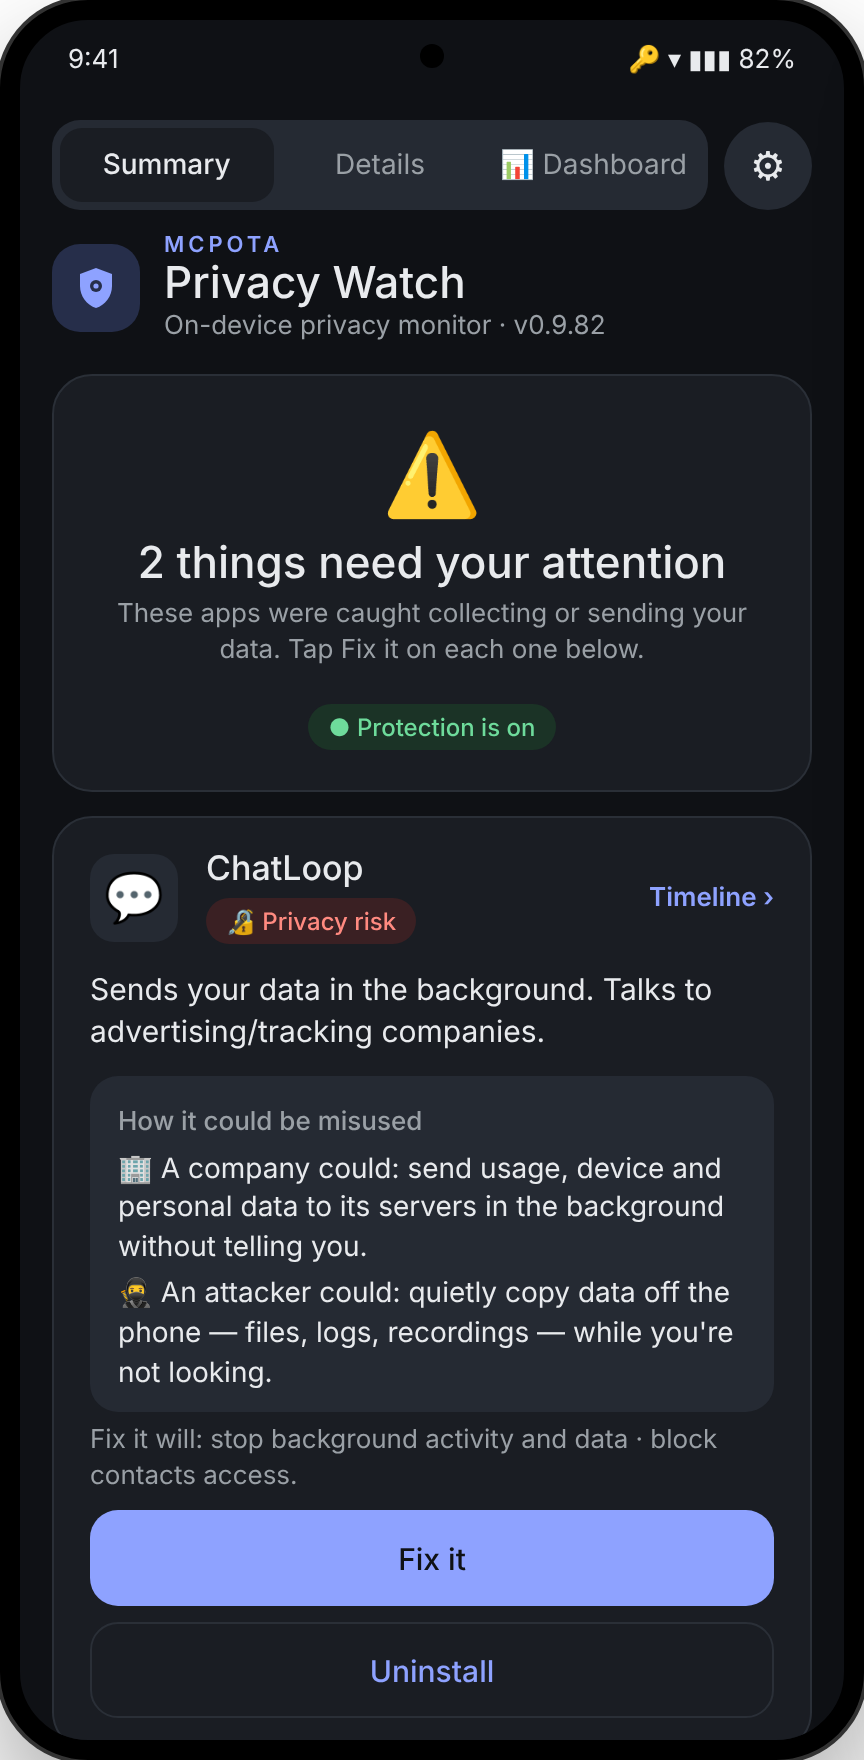
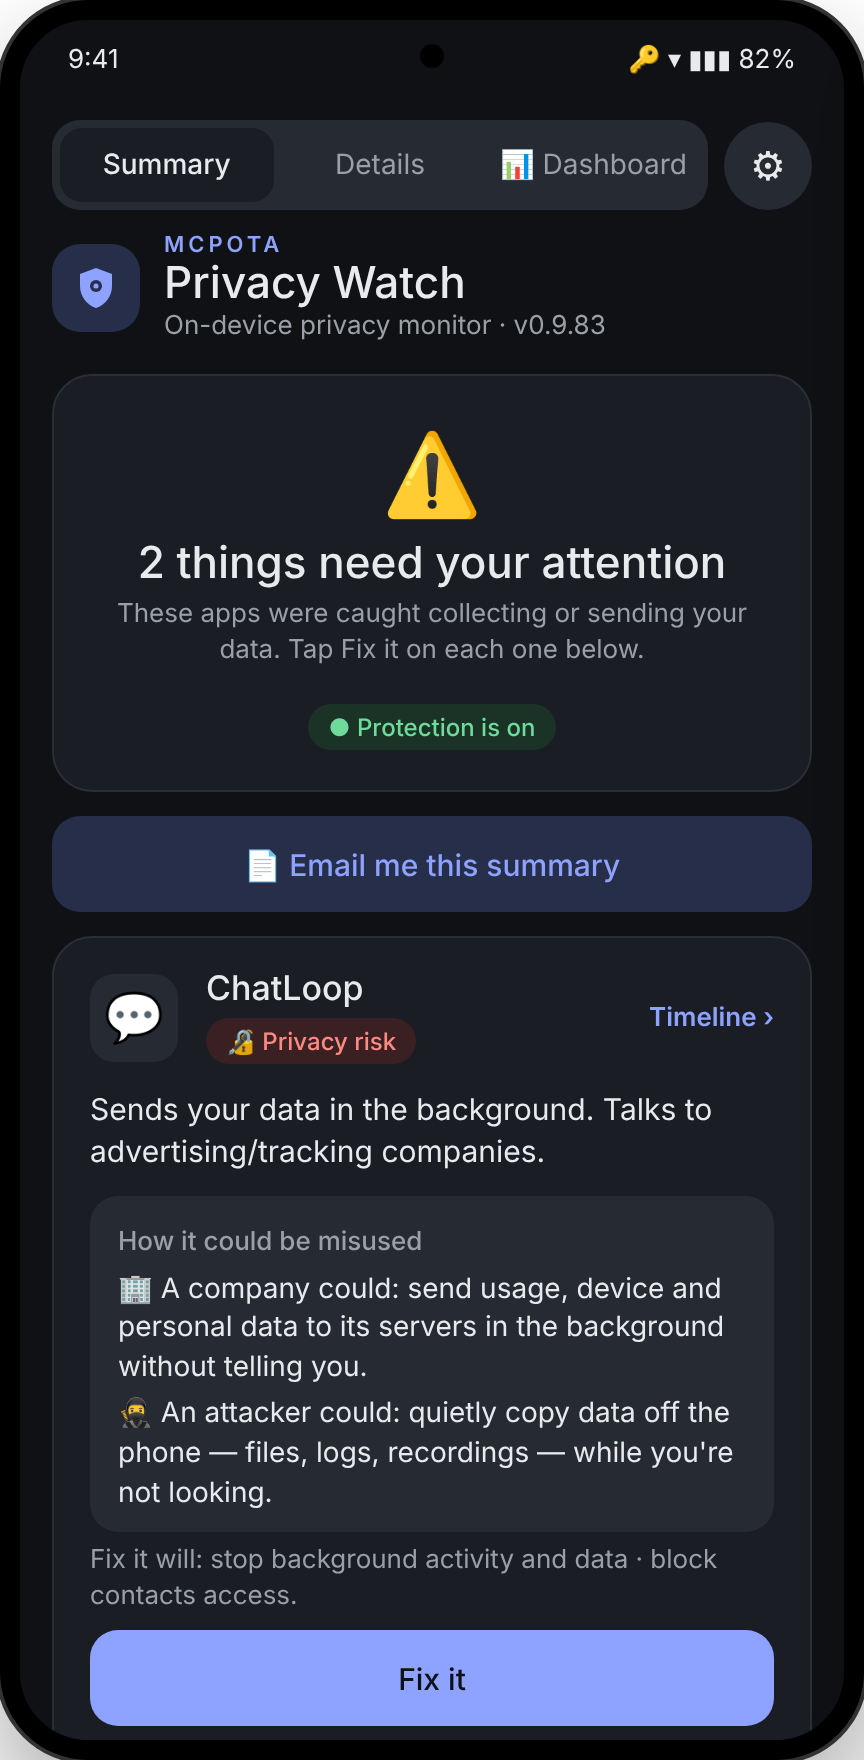
Pictures show the report button at the top; reports copy and release notes v0.9.83
Claude-Session: https://claude.ai/code/session_01XdjYnQbAyse5DfWRDQtaw8

Changed region(s): [[0.0625, 0.4375, 0.9375, 1.0], [0.7188, 0.5625, 0.875, 0.5938]]

diff --git a/index.html b/index.html
@@ -111,7 +111,7 @@
         <span class="badge">🚫 No ads</span><span class="badge">🚫 No analytics</span><span class="badge">📱 Everything stays on your phone</span><span class="badge">↩ Undo for every fix</span>
       </div>
     </div>
-    <img class="phone" src="img/simple.png?v=4" alt="Privacy Watch's Summary screen listing three apps that need attention, with Fix it buttons">
+    <img class="phone" src="img/simple.png?v=5" alt="Privacy Watch's Summary screen listing three apps that need attention, with Fix it buttons">
   </div>
 </div>
 
@@ -130,7 +130,7 @@
         <li>Plain-English "How it could be misused" — by a company and by an attacker</li>
       </ul>
     </div>
-    <img class="phone" src="img/simple.png?v=4" alt="Findings list with red privacy risks and an amber worth-a-look item">
+    <img class="phone" src="img/simple.png?v=5" alt="Findings list with red privacy risks and an amber worth-a-look item">
   </div>
 
   <div class="feature flip">
@@ -143,7 +143,7 @@
         <li>Access → network links within two minutes</li>
       </ul>
     </div>
-    <img class="phone" src="img/timeline.png?v=4" alt="Timeline for a weather app showing location accesses followed by tracker lookups">
+    <img class="phone" src="img/timeline.png?v=5" alt="Timeline for a weather app showing location accesses followed by tracker lookups">
   </div>
 
   <div class="feature">
@@ -156,7 +156,7 @@
         <li>Before / after counts in your reports, so you can see it worked</li>
       </ul>
     </div>
-    <img class="phone" src="img/fix.png?v=4" alt="Fix it confirmation listing battery restriction, background data block and contacts block">
+    <img class="phone" src="img/fix.png?v=5" alt="Fix it confirmation listing battery restriction, background data block and contacts block">
   </div>
 
   <div class="feature flip">
@@ -169,7 +169,7 @@
         <li>Re-applying is part of the original fix</li>
       </ul>
     </div>
-    <img class="phone" src="img/undone.png?v=4" alt="A card saying a fix was undone for a music app, with Re-apply and Leave it buttons">
+    <img class="phone" src="img/undone.png?v=5" alt="A card saying a fix was undone for a music app, with Re-apply and Leave it buttons">
   </div>
 
   <div class="feature">
@@ -182,7 +182,7 @@
         <li>Tracker domains and who contacted them</li>
       </ul>
     </div>
-    <img class="phone" src="img/dashboard.png?v=4" alt="Dashboard with tiles for privacy risks, background accesses and trackers, and a most-active list">
+    <img class="phone" src="img/dashboard.png?v=5" alt="Dashboard with tiles for privacy risks, background accesses and trackers, and a most-active list">
   </div>
 
   <div class="feature flip">
@@ -195,7 +195,7 @@
         <li>User-installed certificates, hidden apps, screen recording</li>
       </ul>
     </div>
-    <img class="phone" src="img/audit.png?v=4" alt="Settings audit showing a sideloaded QR scanner with accessibility access flagged for review">
+    <img class="phone" src="img/audit.png?v=5" alt="Settings audit showing a sideloaded QR scanner with accessibility access flagged for review">
   </div>
 </div></section>
 
@@ -221,14 +221,14 @@
 
 <section id="reports"><div class="wrap">
   <h2>Reports you can share</h2>
-  <p class="sub">Generate a report on the phone and email it as a PDF or open it in your browser. Built on the phone — nothing is uploaded to make it. These samples use made-up apps and data.</p>
+  <p class="sub">One tap at the top of Summary emails the executive summary; one tap at the top of Details sends the technical report. Each is made on the phone as a PDF. Built on the phone — nothing is uploaded to make it. These samples use made-up apps and data.</p>
   <div class="reports">
     <a class="report" href="/samples/executive-report.html">
-      <img src="img/report-executive.png?v=4" alt="Sample executive summary report with status tiles and donut charts" loading="lazy">
+      <img src="img/report-executive.png?v=5" alt="Sample executive summary report with status tiles and donut charts" loading="lazy">
       <div><strong>Executive summary</strong><span>A one-page answer to "is my phone OK?": what needs attention, what was fixed, and how each finding could be misused.</span><b>Open sample →</b></div>
     </a>
     <a class="report" href="/samples/technical-report.html">
-      <img src="img/report-technical.png?v=4" alt="Sample technical report with collection status, domain charts and activity over time" loading="lazy">
+      <img src="img/report-technical.png?v=5" alt="Sample technical report with collection status, domain charts and activity over time" loading="lazy">
       <div><strong>Technical report</strong><span>Every chart and table: domains, hour-by-hour activity, a heatmap per app, data sent, access → network links and the settings audit.</span><b>Open sample →</b></div>
     </a>
   </div>
@@ -247,12 +247,12 @@
 <section><div class="wrap">
   <h2>Gallery</h2>
   <div class="gallery">
-    <figure><img src="img/simple.png?v=4" alt="" loading="lazy"><figcaption>Findings</figcaption></figure>
-    <figure><img src="img/timeline.png?v=4" alt="" loading="lazy"><figcaption>Timeline</figcaption></figure>
-    <figure><img src="img/dashboard.png?v=4" alt="" loading="lazy"><figcaption>Dashboard</figcaption></figure>
-    <figure><img src="img/fix.png?v=4" alt="" loading="lazy"><figcaption>Fix it</figcaption></figure>
-    <figure><img src="img/undone.png?v=4" alt="" loading="lazy"><figcaption>Fix check</figcaption></figure>
-    <figure><img src="img/audit.png?v=4" alt="" loading="lazy"><figcaption>Settings audit</figcaption></figure>
+    <figure><img src="img/simple.png?v=5" alt="" loading="lazy"><figcaption>Findings</figcaption></figure>
+    <figure><img src="img/timeline.png?v=5" alt="" loading="lazy"><figcaption>Timeline</figcaption></figure>
+    <figure><img src="img/dashboard.png?v=5" alt="" loading="lazy"><figcaption>Dashboard</figcaption></figure>
+    <figure><img src="img/fix.png?v=5" alt="" loading="lazy"><figcaption>Fix it</figcaption></figure>
+    <figure><img src="img/undone.png?v=5" alt="" loading="lazy"><figcaption>Fix check</figcaption></figure>
+    <figure><img src="img/audit.png?v=5" alt="" loading="lazy"><figcaption>Settings audit</figcaption></figure>
   </div>
 </div></section>
 

diff --git a/changelog.html b/changelog.html
@@ -12,7 +12,8 @@ footer{border-top:1px solid var(--line);padding-top:16px;color:var(--muted);font
 </style></head><body><main>
 <a href="/">← MCPOTA Privacy Watch</a>
 <h1>Release notes</h1><p style="color:var(--muted)">What changed in each version. The same notes are in the app under ⚙ → What's new.</p>
-<section><h2>v0.9.80 · October 13, 2026</h2><ul><li>New name: MCPOTA Privacy Watch. The home-screen icon still reads Privacy Watch.</li></ul></section>
+<section><h2>v0.9.83 · October 13, 2026</h2><ul><li>The one-tap report buttons are now at the top: under the verdict on Summary, and above Status on Details.</li></ul></section>
+<section><h2>v0.9.80 · October 13, 2026</h2><ul><li>New name: MCPOTA Privacy Watch. The home-screen icon still reads Privacy Watch, and the app header shows MCPOTA above the name.</li></ul></section>
 <section><h2>v0.9.79 · October 13, 2026</h2><ul><li>Tabs renamed: Simple is now Summary, and Advanced is now Details, to match the executive summary and the detailed technical report (and to avoid confusion with &quot;advanced access&quot;).</li></ul></section>
 <section><h2>v0.9.78 · October 13, 2026</h2><ul><li>One-tap reports: &quot;Email me this summary&quot; at the bottom of Simple, and &quot;Technical report&quot; at the bottom of Advanced. The full 📄 Reports screen stays on the Dashboard.</li></ul></section>
 <section><h2>v0.9.77 · October 13, 2026</h2><ul><li>⚙ now opens a full Settings screen, grouped into Plan, Appearance, Protection, Help and Data.</li><li>Theme is one Auto / Light / Dark switch.</li><li>Reports moved to a 📄 Reports button on the Dashboard.</li></ul></section>
